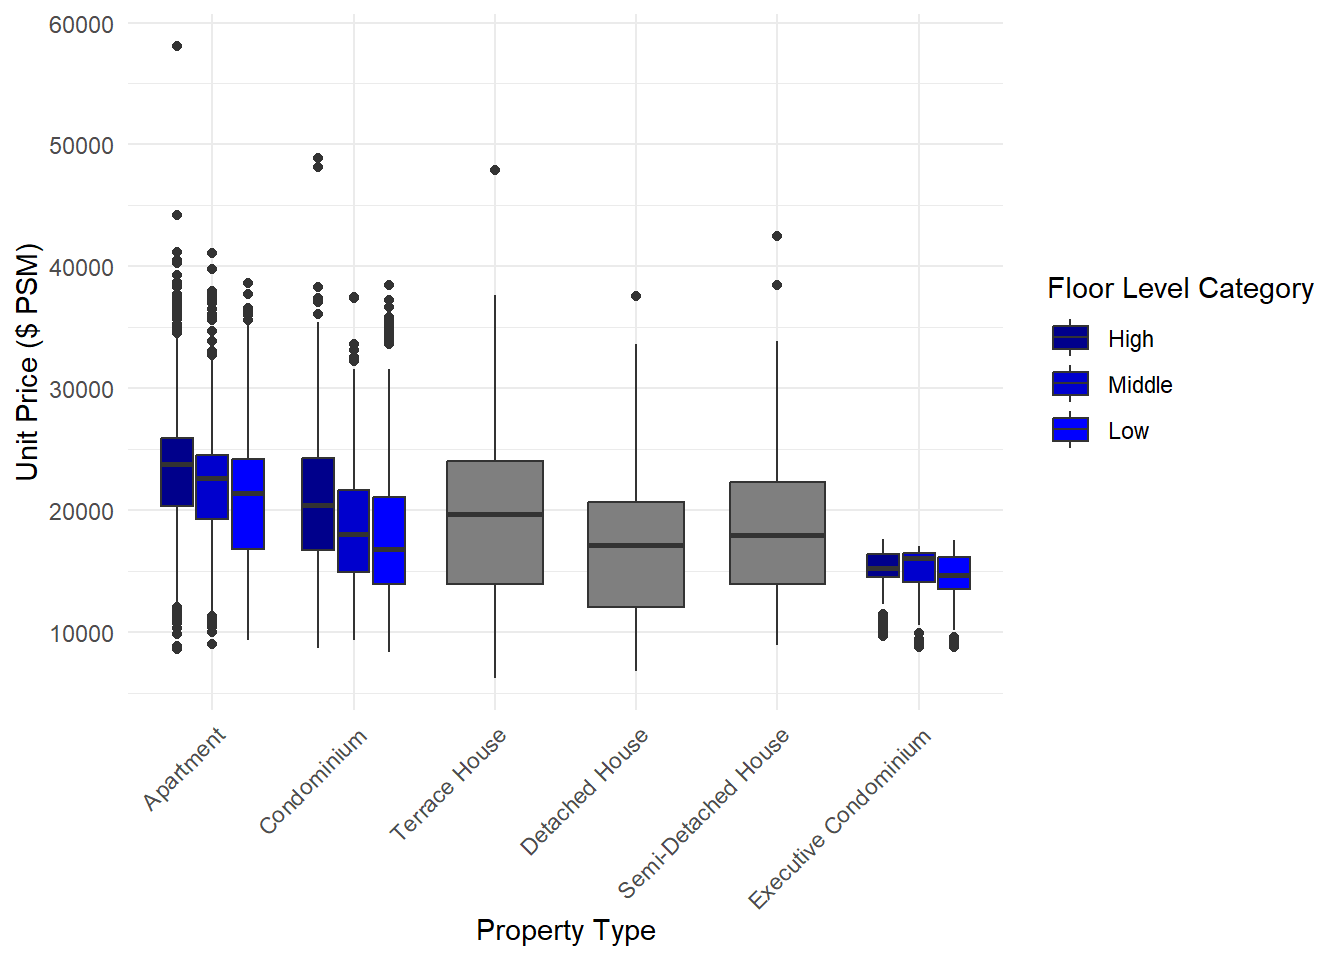
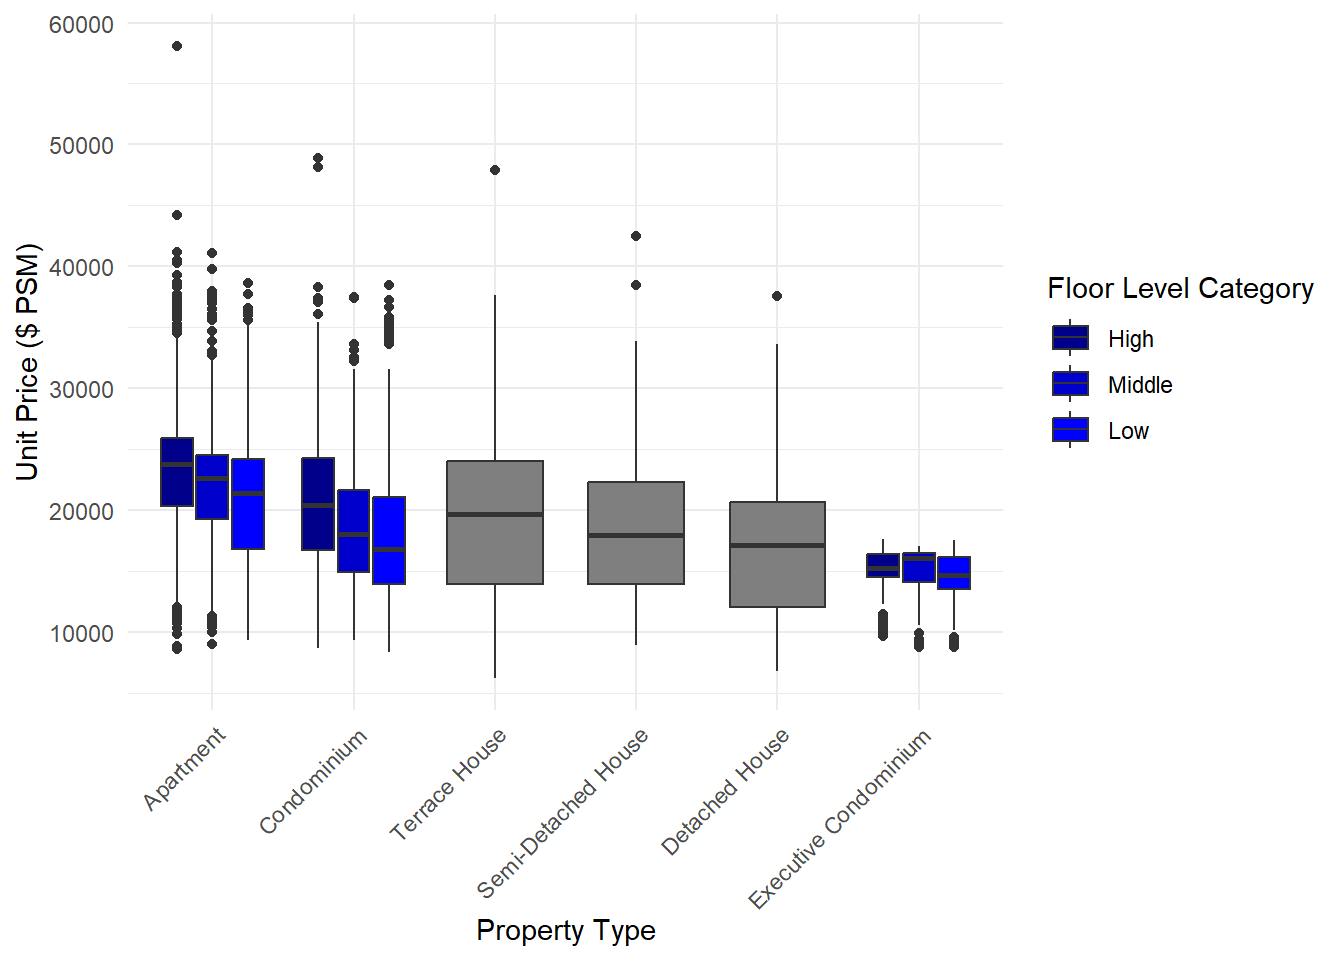
take home exercise 1 v6

diff --git a/_site/Take-home_Ex/Take-home_Ex01/Take-home_Ex01.html b/_site/Take-home_Ex/Take-home_Ex01/Take-home_Ex01.html
@@ -211,7 +211,7 @@ pre > code.sourceCode > span > a:first-child::before { text-decoration: underlin
 
 <p><strong>Installing R Packages</strong></p>
 <div class="cell">
-<div class="sourceCode cell-code" id="cb1"><pre class="sourceCode r code-with-copy"><code class="sourceCode r"><span id="cb1-1"><a href="#cb1-1" aria-hidden="true" tabindex="-1"></a>pacman<span class="sc">::</span><span class="fu">p_load</span>(readr,dplyr,tidyverse,lubridate,ggplot2,stringr)</span></code><button title="Copy to Clipboard" class="code-copy-button"><i class="bi"></i></button></pre></div>
+<div class="sourceCode cell-code" id="cb1"><pre class="sourceCode r code-with-copy"><code class="sourceCode r"><span id="cb1-1"><a href="#cb1-1" aria-hidden="true" tabindex="-1"></a>pacman<span class="sc">::</span><span class="fu">p_load</span>(tidyverse,ggplot2,readr,dplyr,lubridate,stringr)</span></code><button title="Copy to Clipboard" class="code-copy-button"><i class="bi"></i></button></pre></div>
 </div>
 <p><strong>Load and Consolidate Data</strong></p>
 <div class="cell">
@@ -263,7 +263,7 @@ pre > code.sourceCode > span > a:first-child::before { text-decoration: underlin
 <p><img src="Take-home_Ex01_files/figure-html/unnamed-chunk-8-1.png" class="img-fluid" width="672"></p>
 </div>
 </div>
-<p>** Analysis **</p>
+<p><strong>** EDA 1 **</strong></p>
 <p>Pareto chart distinctly illustrates the imbalance in property types, with Condominiums and Apartments not only dominating the market but also highlighting the Pareto principle—these categories alone account for a disproportionate 75% of the total units.</p>
 <p>This suggests higher demand or greater supply in these sectors. As the chart progresses towards more exclusive properties like Terrace Houses, Semi-Detached, and Detached Houses, there’s a notable decline in unit numbers, hinting at lesser availability or possibly higher pricing brackets for such properties.</p>
 <p>This trend is significant for stakeholders, indicating a potential focus area for both market demand and real estate development strategies.</p>
@@ -288,7 +288,7 @@ pre > code.sourceCode > span > a:first-child::before { text-decoration: underlin
 <p><strong>Plot Boxplot</strong></p>
 <div class="cell">
 <div class="sourceCode cell-code" id="cb10"><pre class="sourceCode r code-with-copy"><code class="sourceCode r"><span id="cb10-1"><a href="#cb10-1" aria-hidden="true" tabindex="-1"></a><span class="co"># Reorder levels of 'Property Type' alphabetically</span></span>
-<span id="cb10-2"><a href="#cb10-2" aria-hidden="true" tabindex="-1"></a>realis2024Q1<span class="sc">$</span><span class="st">`</span><span class="at">Property Type</span><span class="st">`</span> <span class="ot">&lt;-</span> <span class="fu">factor</span>(realis2024Q1<span class="sc">$</span><span class="st">`</span><span class="at">Property Type</span><span class="st">`</span>, <span class="at">levels =</span> <span class="fu">c</span>(<span class="st">"Apartment"</span>,<span class="st">"Condominium"</span>,<span class="st">"Terrace House"</span>,<span class="st">"Detached House"</span>, <span class="st">"Semi-Detached House"</span>,<span class="st">"Executive Condominium"</span>))</span>
+<span id="cb10-2"><a href="#cb10-2" aria-hidden="true" tabindex="-1"></a>realis2024Q1<span class="sc">$</span><span class="st">`</span><span class="at">Property Type</span><span class="st">`</span> <span class="ot">&lt;-</span> <span class="fu">factor</span>(realis2024Q1<span class="sc">$</span><span class="st">`</span><span class="at">Property Type</span><span class="st">`</span>, <span class="at">levels =</span> <span class="fu">c</span>(<span class="st">"Apartment"</span>,<span class="st">"Condominium"</span>,<span class="st">"Terrace House"</span>, <span class="st">"Semi-Detached House"</span>,<span class="st">"Detached House"</span>,<span class="st">"Executive Condominium"</span>))</span>
 <span id="cb10-3"><a href="#cb10-3" aria-hidden="true" tabindex="-1"></a></span>
 <span id="cb10-4"><a href="#cb10-4" aria-hidden="true" tabindex="-1"></a><span class="co"># Reorder levels of 'Floor Level Category' by "High", "Middle", "Low"</span></span>
 <span id="cb10-5"><a href="#cb10-5" aria-hidden="true" tabindex="-1"></a>realis2024Q1<span class="sc">$</span><span class="st">`</span><span class="at">Floor Level Category</span><span class="st">`</span> <span class="ot">&lt;-</span> <span class="fu">factor</span>(realis2024Q1<span class="sc">$</span><span class="st">`</span><span class="at">Floor Level Category</span><span class="st">`</span>, <span class="at">levels =</span> <span class="fu">c</span>(<span class="st">"High"</span>, <span class="st">"Middle"</span>, <span class="st">"Low"</span>))</span>
@@ -304,7 +304,19 @@ pre > code.sourceCode > span > a:first-child::before { text-decoration: underlin
 <p><img src="Take-home_Ex01_files/figure-html/unnamed-chunk-10-1.png" class="img-fluid" width="672"></p>
 </div>
 </div>
-<p>** Analysis ** Insert Analysis Here</p>
+<p><strong>** EDA 2 ** Insert Analysis Here</strong></p>
+<p>The boxplot analysis highlights several significant findings, with a focus on median prices:</p>
+<ol type="1">
+<li><p>Terraced, semi-detached, and detached houses exhibit lower median prices in contrast to vertical living spaces such as apartments ,and condominiums. This discrepancy suggests a potential premium associated with apartment living, possibly attributed to location advantages, particularly in central urban areas.</p></li>
+<li><p>Condominiums generally boast higher median prices compared to apartments, indicative of additional amenities or sought after locations that elevate their market value.</p></li>
+<li><p>Executive condominiums stand out with the lowest median price among all property types, implying a level of affordability. This could be due to the regulatory price controls.</p></li>
+<li><p>Further exploration into median prices based on property type and floor levels reveals that higher floors command a premium for condominiums and apartments.</p></li>
+<li><p>In contrast, executive condominiums exhibit a more uniform pricing pattern across different floors, in comparison to apartments and condominiums.</p></li>
+</ol>
+<p><strong>** Summary**</strong></p>
+<p>The analysis of property types using Pareto charts sheds light on the distribution within the market. Condominiums and apartments emerge as prominent, aligning with the Pareto principle by occupying a significant portion of total units. This suggests either heightened demand or extensive supply in these segments.</p>
+<p>This finding is further corroborated by the examination of property types using boxplots. It highlights the preference for apartment living over traditional housing types, emphasizing the premium associated with such accommodations.</p>
+<p>In essence, these analyses provide valuable insights into the property market, emphasizing the dominance of condominiums and apartments and their impact on demand and pricing dynamics.</p>
 
 
 
